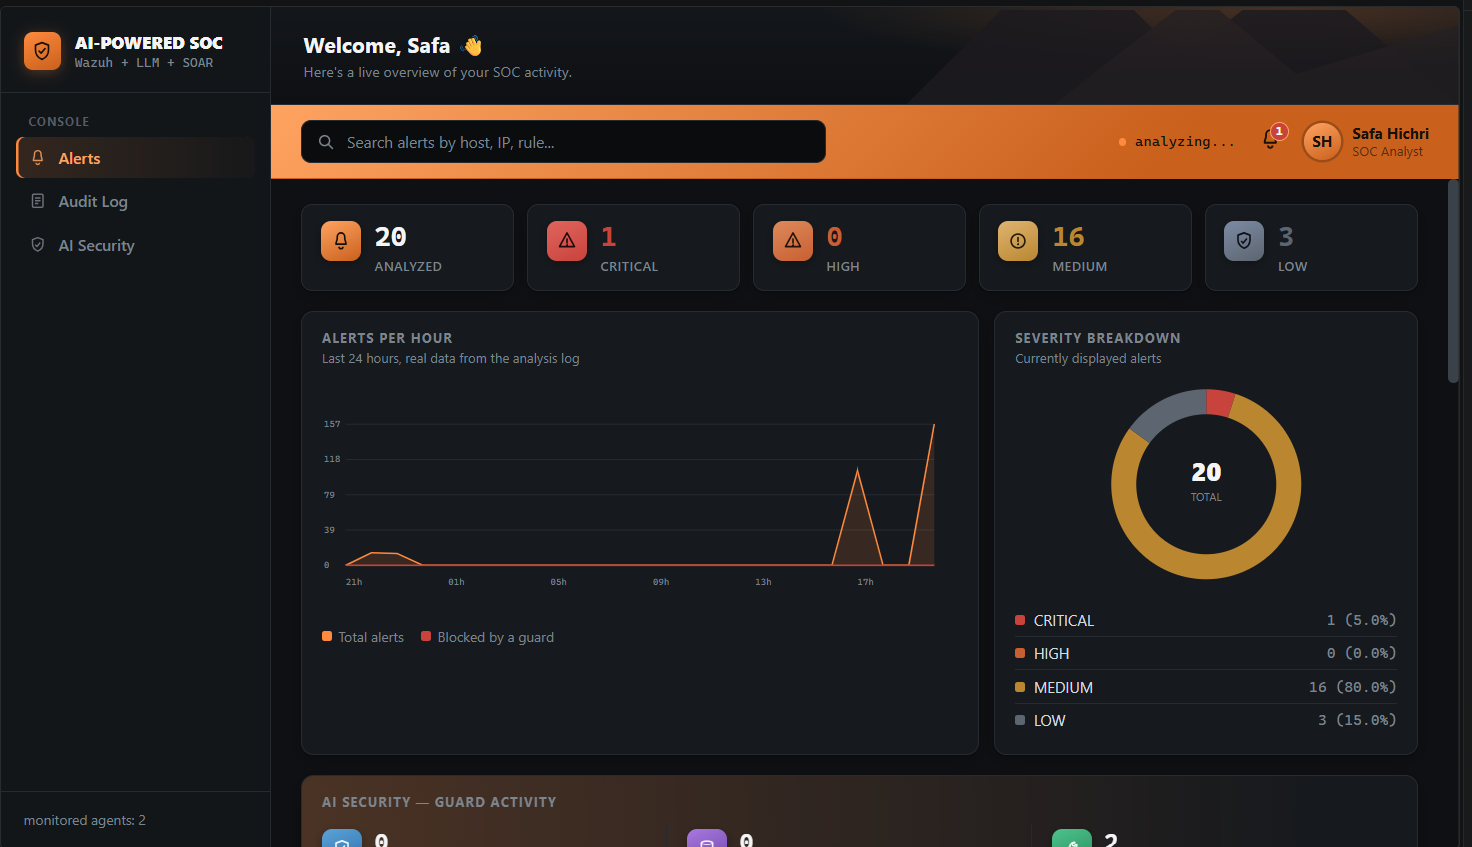
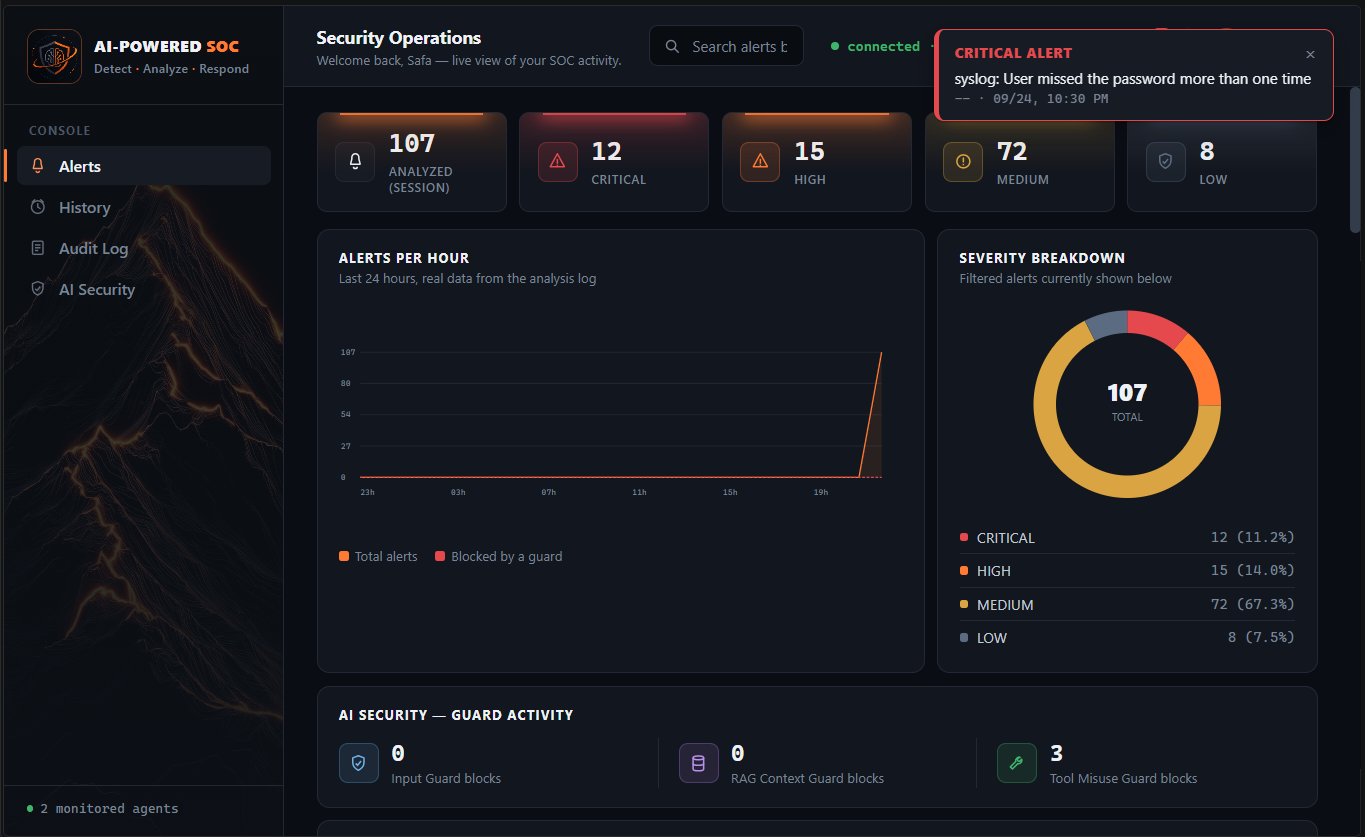
docs: diagram architecture with Mermaid, refresh dashboard screenshots
- Replace the three ASCII architecture/flow diagrams with Mermaid
  flowcharts, which GitHub renders natively -- actual boxes and
  arrows instead of monospace art.
- Replace all 5 dashboard screenshots with fresh ones from the
  redesigned UI; two old states (pre-approval, injection-blocked)
  don't have a matching capture in this design yet, so their slots
  were replaced with what's actually available now (Critical & High
  History, a severity-filtered benign alert) rather than left stale.
- Test count updated (174 -> 177) and two new Development Status
  entries for tonight's alert-lifecycle and dashboard-notification
  work.

diff --git a/README.md b/README.md
@@ -119,46 +119,35 @@ Screenshots from the live lab (real Wazuh alerts, real LLM analysis, real
 Active Response — no mocked data).
 
 ![Dashboard overview](docs/screenshots/01-dashboard-overview.png)
-*Live overview: severity breakdown and alert volume computed from the real analysis log.*
+*Live overview: severity breakdown, alert volume, and guard activity computed from the real analysis log over an actual 24-hour window.*
 
-![CRITICAL alert before approval](docs/screenshots/02-critical-before-approval.png)
-*A real SSH brute-force alert classified CRITICAL, with its retrieved RAG context and the two SOAR-proposed actions awaiting human approval.*
+![CRITICAL alert reviewed and executed](docs/screenshots/02-critical-alert-executed.png)
+*A real SSH brute-force alert classified CRITICAL: retrieved RAG context above, the role-gated `WazuhIsolateAgent` action below — approved as `admin` and showing EXECUTED.*
 
-![CRITICAL alert executed](docs/screenshots/03-critical-executed.png)
-*After role-gated approval: the isolation action shows EXECUTED, with the AI threat assessment above it.*
+![Critical & High history](docs/screenshots/03-critical-high-history.png)
+*Every Critical/High alert seen this session in one place, each one's real outcome (or "Pending Approval") rather than an assumed one.*
 
 ![Recent decisions audit trail](docs/screenshots/04-recent-decisions.png)
 *The merged audit trail — who approved what, under which role, plus the automatic read-only enrichment lookups that never require approval.*
 
-![Prompt injection blocked](docs/screenshots/05-injection-blocked.png)
-*A live prompt-injection attempt (a malicious SSH username) caught by `input_guard` before it ever reached the LLM.*
+![Severity-filtered alert, correctly triaged](docs/screenshots/05-severity-filtered-alert.png)
+*Filtering to Medium: a routine login alert receiving a full AI assessment without over-reacting to it.*
 
 ## Decision engine and SOAR — how the agent stays out of the loop
 
 The LLM's job ends at producing a structured `ThreatAssessment` (threat
 type, `risk_level`, confidence, summary). It never decides what to *do*:
 
-```text
-ThreatAssessment.risk_level (validated enum)
-              |
-              v
-   build_response_plan()  <-- deterministic function; never reads the
-              |                LLM's free-text recommended_actions
-              v
-   ProposedAction (requires_approval=True, always)
-              |
-              v
-   Human reviews in the dashboard, picks a role, approves or rejects
-              |
-              v
-   check_approval()  <-- confirmation token bound to the action's exact
-              |            content; role must meet the risk level's
-              |            minimum (RBAC, agent/analysis/approval_policy.py)
-              v
-   ToolExecutor.run()  <-- ToolMisuseGuard evaluates the call independently;
-              |             an approved action is not exempt from it
-              v
-   Real effect (e.g. a genuine Wazuh Active Response) or BLOCKED
+```mermaid
+flowchart TD
+    A["ThreatAssessment.risk_level<br/>(validated enum)"] --> B["build_response_plan()<br/>deterministic — never reads the LLM's<br/>free-text recommended_actions"]
+    B --> C["ProposedAction<br/>requires_approval = True, always"]
+    C --> D["Human reviews in the dashboard<br/>picks a role, approves or rejects"]
+    D --> E["check_approval()<br/>confirmation token bound to exact content;<br/>role must meet the risk level's minimum (RBAC)"]
+    E --> F["ToolExecutor.run()<br/>ToolMisuseGuard evaluates independently —<br/>an approved action is not exempt"]
+    F --> G{"Guard decision"}
+    G -->|ALLOW| H["Real effect<br/>e.g. genuine Wazuh Active Response"]
+    G -->|BLOCK| I["BLOCKED"]
 ```
 
 This is a mitigation for what OWASP's LLM Top 10 calls **Excessive
@@ -171,71 +160,40 @@ is still blocked if `ToolMisuseGuard` rejects it.
 
 ## Architecture
 
-```text
-                         Windows 11 Host
-                              |
-                     VMware Workstation
-                              |
-              +---------------+---------------+
-              |                               |
-         VMnet8 (NAT)                    VMnet3
-          Internet                  10.0.0.0/24
-                                              |
-                              +---------------+---------------+
-                              |                               |
-                         SOC-Ubuntu                       Kali Linux
-                         10.0.0.10                       10.0.0.20
-                              |                               |
-                    +---------+---------+                     |
-                    |         |         |                     |
-                  Wazuh     Indexer   Dashboard           Wazuh Agent
-                 Manager     :9200      :443                 |
-                    |                                      |
-                    +--------------- Alerts ---------------+
+```mermaid
+flowchart TD
+    Host["Windows 11 Host"] --> VMware["VMware Workstation"]
+    VMware --> NAT["VMnet8 (NAT)<br/>Internet"]
+    VMware --> LAN["VMnet3<br/>10.0.0.0/24"]
+    LAN --> SOC["SOC-Ubuntu<br/>10.0.0.10"]
+    LAN --> Kali["Kali Linux<br/>10.0.0.20"]
+    SOC --> Manager["Wazuh Manager"]
+    SOC --> Indexer["Wazuh Indexer :9200"]
+    SOC --> Dashboard["Dashboard :443"]
+    Kali --> Agent["Wazuh Agent"]
+    Agent -.alerts.-> Manager
 ```
 
 ### Data flow (implemented, live-validated)
 
-```text
-Kali (attack) --> Wazuh Manager (detection) --> Wazuh Indexer (alert storage)
-                                                        |
-                                                        v
-                                        WazuhIndexerClient (retry + watermark)
-                                                        |
-                                                        v
-                                            normalize_wazuh_alert -> SecurityAlert
-                                                        |
-                                                        v
-                                    LiveAlertInvestigator: guarded enrichment
-                                    (ThreatIntelLookupIP / WazuhGetAgentInfo,
-                                     via ToolExecutor -> ToolMisuseGuard)
-                                                        |
-                                                        v
-                              RAGPipeline: InputGuard -> RAGContextGuard -> retrieval
-                                                        |
-                                                        v
-                                        Ollama LLM analysis, grounded in
-                                        retrieved knowledge + enrichment
-                                                        |
-                                                        v
-                                  ThreatAssessment (structured, validated)
-                                                        |
-                                                        v
-                          build_response_plan() -- deterministic SOAR proposal
-                                        (only for HIGH/CRITICAL risk_level)
-                                                        |
-                                                        v
-                           FastAPI (api/) + dashboard -- human reviews and
-                            approves/rejects (RBAC + confirmation token)
-                                                        |
-                                                        v
-                       ToolExecutor -> ToolMisuseGuard -> real Wazuh Active
-                        Response (e.g. WazuhIsolateAgent) or BLOCKED
-                                                        |
-                                                        v
-                   audit log (logs/alert_analysis_log.jsonl) + tool execution
-                     audit (logs/tool_execution_audit.jsonl) + analyst
-                       decisions (logs/analyst_decisions.jsonl)
+```mermaid
+flowchart TD
+    A["Kali (attack)"] --> B["Wazuh Manager (detection)"]
+    B --> C["Wazuh Indexer (alert storage)"]
+    C --> D["WazuhIndexerClient<br/>retry + watermark, thread-safe against<br/>concurrent pollers"]
+    D --> E["normalize_wazuh_alert() → SecurityAlert"]
+    E --> F["LiveAlertInvestigator: guarded enrichment<br/>(ThreatIntelLookupIP / WazuhGetAgentInfo<br/>via ToolExecutor → ToolMisuseGuard)"]
+    F --> G["RAGPipeline: InputGuard → RAGContextGuard → retrieval"]
+    G --> H["Ollama LLM analysis<br/>grounded in retrieved knowledge + enrichment"]
+    H --> I["ThreatAssessment (structured, validated)"]
+    I --> J["build_response_plan()<br/>deterministic SOAR proposal<br/>(only for HIGH/CRITICAL risk_level)"]
+    J --> K["FastAPI + dashboard<br/>human reviews, approves/rejects<br/>(RBAC + confirmation token)"]
+    K --> L["ToolExecutor → ToolMisuseGuard"]
+    L --> M{"Guard decision"}
+    M -->|ALLOW| N["Real Wazuh Active Response<br/>e.g. WazuhIsolateAgent"]
+    M -->|BLOCK| O["BLOCKED"]
+    N --> P["Audit trail:<br/>alert_analysis_log.jsonl · tool_execution_audit.jsonl ·<br/>analyst_decisions.jsonl"]
+    O --> P
 ```
 
 ## Laboratory Environment
@@ -380,7 +338,13 @@ log collection, Rootcheck).
       brute-force escalated to a real, human-approved, real Active Response
       isolation; a real prompt-injection attempt and a RAG-poisoning attempt
       each caught live by their respective guards
-* [x] 174 automated tests (`pytest -q`)
+* [x] 177 automated tests (`pytest -q`)
+* [x] Master/detail alert triage UI (severity-filtered list + detail pane),
+      a Critical/High history view, and an in-browser critical-alert
+      notification (sound + toast) driven by real poll results
+* [x] Analyst-facing alert lifecycle (Resolve/Delete) backed by its own
+      persisted status store — never mutates the underlying alert, analysis
+      log, or audit/decision trail
 
 ### In Progress / Planned
 
